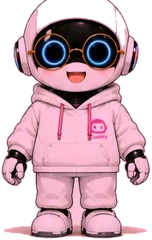
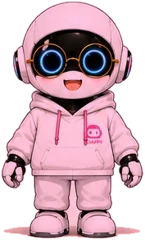
フテ猫クレーンゲーム v1.3：16ポーズのキャラシートを取り込み（実況ポーズ・景品21種追加）、チャッピーの頭欠け修正
Claude-Session: https://claude.ai/code/session_019DxhEiniayT79VQV9isXfd

diff --git a/futeneko-crane/index.html b/futeneko-crane/index.html
@@ -22,7 +22,7 @@ html,body{height:100%;overflow:hidden;background:#2a1250;font-family:"Hiragino M
 #cv{position:absolute;inset:0;width:100%;height:100%;display:block;touch-action:none}
 .bub{position:absolute;display:flex;align-items:flex-end;gap:4px;max-width:46%;opacity:0;transition:opacity .25s;pointer-events:none;z-index:5}
 .bub.show{opacity:1}
-.bub img{width:44px;height:44px;border-radius:50%;border:2px solid #fff;background:#fff;flex:0 0 auto}
+.bub img{width:64px;height:64px;object-fit:contain;flex:0 0 auto;filter:drop-shadow(0 2px 3px rgba(0,0,0,.4))}
 .bub .txt{background:#fff;color:#222;border-radius:14px;padding:7px 10px;font-size:13px;font-weight:800;line-height:1.3;box-shadow:0 2px 6px rgba(0,0,0,.3);position:relative}
 #bubL{left:6px;top:8px}
 #bubR{right:6px;top:8px;flex-direction:row-reverse}
@@ -107,9 +107,9 @@ h1{font-size:26px;color:#ffd75e;text-shadow:0 2px 0 #7a3a00;margin:6px 0 2px}
  <div id="stageWrap">
   <canvas id="cv"></canvas>
   <div id="timerBar"><div id="timerFill"></div></div>
-  <div class="bub" id="bubL"><img src="img/face-fute.webp" alt=""><div class="txt"></div></div>
-  <div class="bub" id="bubR"><img src="img/face-chap.webp" alt=""><div class="txt"></div></div>
-  <div class="bub" id="bubR2"><img src="img/face-kuro.webp" alt=""><div class="txt"></div></div>
+  <div class="bub" id="bubL"><img src="img/fute_think.webp" alt=""><div class="txt"></div></div>
+  <div class="bub" id="bubR"><img src="img/chap_wave.webp" alt=""><div class="txt"></div></div>
+  <div class="bub" id="bubR2"><img src="img/kuro_think.webp" alt=""><div class="txt"></div></div>
   <div id="res"><div id="resBox"></div></div>
   <div id="toast"></div>
 
@@ -161,7 +161,7 @@ h1{font-size:26px;color:#ffd75e;text-shadow:0 2px 0 #7a3a00;margin:6px 0 2px}
 </div>
 <script>
 'use strict';
-const VERSION='1.2';
+const VERSION='1.3';
 document.getElementById('verTxt').textContent=VERSION;
 const $=id=>document.getElementById(id);
 const clamp=(v,a,b)=>v<a?a:v>b?b:v;
@@ -194,6 +194,27 @@ const PR=[
  ['chap_walk','あるく チャッピー','chap_walk',1,72,86,1.2,.4,.15],
  ['chap_run','はしる チャッピー','chap_run',1,74,84,1.2,.35,.3],
  ['chap_jump','ジャンプ チャッピー','chap_jump',1,72,86,1.15,.35,-.3],
+ ['fute_joy','よろこぶ フテ猫','fute_joy',0,0,86,1.0,.5,0],
+ ['fute_sleep','ねむる フテ猫','fute_sleep',0,0,72,1.1,.7,0],
+ ['fute_think','かんがえる フテ猫','fute_think',0,0,86,1.0,.5,.1],
+ ['fute_goal','ゴール フテ猫','fute_goal',1,0,86,1.0,.4,-.2],
+ ['fute_lift','もちあげ フテ猫','fute_lift',1,0,90,1.2,.4,0],
+ ['fute_angry','おこる フテ猫','fute_angry',1,0,86,1.0,.5,0],
+ ['fute_shy','てれる フテ猫','fute_shy',1,0,86,1.0,.5,.15],
+ ['kuro_joy','よろこぶ クロネコ','kuro_joy',0,0,86,1.0,.55,0],
+ ['kuro_sleep','ねむる クロネコ','kuro_sleep',0,0,72,1.1,.7,0],
+ ['kuro_idea','ひらめく クロネコ','kuro_idea',0,0,86,1.0,.5,.1],
+ ['kuro_goal','ゴール クロネコ','kuro_goal',1,0,86,1.0,.4,0],
+ ['kuro_push','おす クロネコ','kuro_push',1,0,80,1.3,.5,-.3],
+ ['kuro_surprise','おどろく クロネコ','kuro_surprise',1,0,86,1.0,.45,.2],
+ ['kuro_sad','しょんぼり クロネコ','kuro_sad',1,0,72,1.1,.7,0],
+ ['chap_joy','よろこぶ チャッピー','chap_joy',0,0,86,1.15,.4,0],
+ ['chap_sleep','ねむる チャッピー','chap_sleep',0,0,72,1.2,.6,0],
+ ['chap_point','ゆびさす チャッピー','chap_point',1,0,86,1.15,.4,-.2],
+ ['chap_goal','ゴール チャッピー','chap_goal',1,0,86,1.15,.35,0],
+ ['chap_wave','てをふる チャッピー','chap_wave',1,0,86,1.15,.4,.1],
+ ['chap_surprise','おどろく チャッピー','chap_surprise',1,0,86,1.15,.35,.2],
+ ['chap_pickup','ひろう チャッピー','chap_pickup',1,0,70,1.2,.5,-.3],
  ['fute_gold','金のフテ猫','fute_gold',2,66,86,1.6,.3,0],
  ['kuro_platinum','プラチナ クロネコ','kuro_platinum',2,70,86,1.6,.3,0],
  ['chap_pink','ピンク チャッピー','chap_pink',2,68,86,1.3,.35,0],
@@ -209,11 +230,11 @@ const PR=[
  ['c_guitar','ギター','🎸',1],['c_crown','おうかん','👑',1],['c_robot','ロボそうじき','🤖',1],
  ['c_chest','ひみつの たからばこ','🎁',2],['c_star','きらきら ほし','🌟',2]
 ];
-const PRIZE={}; PR.forEach(p=>PRIZE[p[0]]={id:p[0],name:p[1],img:p[2],rar:p[3],w:p[4]||60,h:p[5]||60,wt:p[6]||1,fr:p[7]||.5,com:p[8]||0});
+const PRIZE={}; PR.forEach(p=>PRIZE[p[0]]={id:p[0],name:p[1],img:p[2],rar:p[3],w:p[4]||70,h:p[5]||60,wt:p[6]||1,fr:p[7]||.5,com:p[8]||0});
 const RARN=['ふつう','レア','超レア'];
 const CAPS=PR.filter(p=>p[0].startsWith('c_')).map(p=>p[0]);
-const PLUSH_N=['fute_front','fute_right','fute_left','fute_walk','kuro_front','kuro_right','kuro_left','kuro_walk','cushion'];
-const PLUSH_R=['fute_run','fute_jump','kuro_run','kuro_jump','chap_front','chap_right','chap_left','chap_walk','chap_run','chap_jump'];
+const PLUSH_N=['fute_front','fute_right','fute_left','fute_walk','kuro_front','kuro_right','kuro_left','kuro_walk','cushion','fute_joy','fute_sleep','fute_think','kuro_joy','kuro_sleep','kuro_idea','chap_joy','chap_sleep'];
+const PLUSH_R=['fute_run','fute_jump','kuro_run','kuro_jump','chap_front','chap_right','chap_left','chap_walk','chap_run','chap_jump','fute_goal','fute_lift','fute_angry','fute_shy','kuro_goal','kuro_push','kuro_surprise','kuro_sad','chap_point','chap_goal','chap_wave','chap_surprise','chap_pickup'];
 const PLUSH_S=['fute_gold','kuro_platinum','chap_pink'];
 
 /* ===== だい ===== */
@@ -281,7 +302,8 @@ const SFX={
 
 /* ===== 画像 ===== */
 const IMG={};
-const IMGKEYS=['fute_front','fute_right','fute_left','fute_walk','fute_run','fute_jump','kuro_front','kuro_right','kuro_left','kuro_walk','kuro_run','kuro_jump','chap_front','chap_right','chap_left','chap_walk','chap_run','chap_jump','fute_gold','kuro_platinum','chap_pink'];
+const POSES=['joy','surprise','sad','angry','think','idea','shy','sleep','point','wave','pickup','lift','push','pull','stumble','goal'];
+const IMGKEYS=[].concat(...['fute','kuro','chap'].map(c=>POSES.map(p=>c+'_'+p))).concat(['fute_front','fute_right','fute_left','fute_walk','fute_run','fute_jump','kuro_front','kuro_right','kuro_left','kuro_walk','kuro_run','kuro_jump','chap_front','chap_right','chap_left','chap_walk','chap_run','chap_jump','fute_gold','kuro_platinum','chap_pink']);
 function loadImgs(){return Promise.all(IMGKEYS.map(k=>new Promise(res=>{const im=new Image();im.onload=()=>{IMG[k]=im;res();};im.onerror=()=>res();im.src='img/'+k+'.webp';})));}
 
 /* ===== 物理 ===== */
@@ -293,6 +315,7 @@ function makePrize(id,x,z,y){
  if(id.startsWith('c_')){p.shape='ball';p.r=27;p.col=pick(['#ff6f91','#4fc3f7','#ffd54f','#81c784','#ba68c8','#ff8a65']);p.x=x;p.y=(y||0)+p.r;p.px=p.x;p.py=p.y;p.wt=.9;p.fr=.15;}
  else{
   p.w=d.w;p.h=d.h;p.wt=d.wt;p.fr=d.fr;p.com=d.com;p.shape='box';
+  if(IMG[d.img]&&!id.startsWith('giant_')){const im=IMG[d.img];p.w=clamp(Math.round(d.h*im.naturalWidth/im.naturalHeight),44,110);}
   const cx=x,cy=(y||0)+d.h/2;
   p.pt=[[cx-d.w/2,cy-d.h/2],[cx+d.w/2,cy-d.h/2],[cx+d.w/2,cy+d.h/2],[cx-d.w/2,cy+d.h/2]].map(q=>({x:q[0],y:q[1],px:q[0],py:q[1]}));
   p.cons=[[0,1,d.w],[1,2,d.h],[2,3,d.w],[3,0,d.h],[0,2,Math.hypot(d.w,d.h)],[1,3,Math.hypot(d.w,d.h)]];
@@ -380,7 +403,7 @@ function setupMachine(k){
  $('hMach').textContent=machine.name;$('chMach').style.display='';
  $('btnQuit').style.display='';$('btnHint').style.display='';
  showPad(false);
- say('R','チャッピー','こんにちは！ '+machine.name+'だよ。'+(machine.type==='bridge'?'はこの はしを おして ずらしてね！':machine.type==='giant'?'ひっぱって すこしずつ あなへ！':'まんなかを ねらってね！'));
+ say('R','チャッピー','こんにちは！ '+machine.name+'だよ。'+(machine.type==='bridge'?'はこの はしを おして ずらしてね！':machine.type==='giant'?'ひっぱって すこしずつ あなへ！':'まんなかを ねらってね！'),'wave');
 }
 function refill(){
  if(machine.type==='plush'&&prizes.length<machine.n)spawnPlush(1);
@@ -392,13 +415,13 @@ function showPad(on){playing=on;$('pad').classList.toggle('playing',on);$('timer
 let depthTipShown=false;
 function startPlay(){
  if(claw.st!=='idle')return;
- if(S.coins<machine.cost){toast('コインが たりないよ… おてつだいや ミッションで ふやそう');say('L','フテ猫','コイン ないんか。おてつだい してこい。');SFX.miss();return;}
+ if(S.coins<machine.cost){toast('コインが たりないよ… おてつだいや ミッションで ふやそう');say('L','フテ猫','コイン ないんか。おてつだい してこい。','angry');SFX.miss();return;}
  S.coins-=machine.cost;S.plays++;misProg('play');save();updHud();SFX.coin();
  timeLeft=machine.time;showPad(true);claw.st='move';
- if(!depthTipShown){depthTipShown=true;say('R','チャッピー','▲おく は うしろ（ちいさく みえる）、▼てまえ は こっち！ ゆかの まとが みどりに なったら つかめるよ');say('R2','クロネコ','景品の かげに まとを あわせろ。');}
- else say('R','チャッピー',pick(['がんばって！','いいところを さがそう！','おちついて ねらってね！']));
+ if(!depthTipShown){depthTipShown=true;say('R','チャッピー','▲おく は うしろ（ちいさく みえる）、▼てまえ は こっち！ ゆかの まとを 景品の かげに あわせてね','idea');say('R2','クロネコ','景品の かげに まとを あわせろ。','point');}
+ else say('R','チャッピー',pick(['がんばって！','いいところを さがそう！','おちついて ねらってね！']),pick(['wave','point','joy']));
 }
-function doGrab(){if(claw.st!=='move')return;claw.st='down';claw.open=1;input={l:0,r:0,b:0,f:0};SFX.down();say('L','フテ猫',pick(['さあ どうなる？','そこで ええんか？','いくで！']));}
+function doGrab(){if(claw.st!=='move')return;claw.st='down';claw.open=1;input={l:0,r:0,b:0,f:0};SFX.down();say('L','フテ猫',pick(['さあ どうなる？','そこで ええんか？','いくで！']),'surprise');}
 function updHud(){$('hCoin').textContent=S.coins;$('hPrize').textContent=Object.values(S.col).reduce((a,b)=>a+b,0);}
 
 function tryGrab(){
@@ -421,10 +444,10 @@ function tryGrab(){
   // いちばん ちかい かど
   if(best.shape==='box'){let bi=0,bd=1e9;best.pt.forEach((q,i)=>{const d=Math.hypot(q.x-claw.x,q.y-claw.y);if(d<bd){bd=d;bi=i;}});claw.grabPt=bi;const q=best.pt[bi];claw.g0={qx:q.x-claw.x,qy:q.y,cy:claw.y};}
   else{claw.mode='carry';claw.slipT=0;claw.quality=Math.max(f,.9);}
- }else{claw.mode='none';best.held=false;claw.hold=null;say('L','フテ猫','びくとも せえへん！ おもすぎや！');return;}
+ }else{claw.mode='none';best.held=false;claw.hold=null;say('L','フテ猫','びくとも せえへん！ おもすぎや！','angry');return;}
  SFX.grab();
- if(claw.mode==='carry'){if(f>1.35&&eff<.3){say('R2','クロネコ',pick(['重心を とらえた。','今の角度は悪くない。','いい つかみだ。']));}else if(eff>.5){say('L','フテ猫',pick(['おいおい、そこちゃうやろ！','かたよっとるで！','はしっこ つかんでどうすんねん']));}else say('R','チャッピー','あとちょっと！ がんばって！');}
- else say('R2','クロネコ',pick(['かどを つかんだ。うごくか？','もちあがらない… だが ずれるぞ。','てこの げんりだ。']));
+ if(claw.mode==='carry'){if(f>1.35&&eff<.3){say('R2','クロネコ',pick(['重心を とらえた。','今の角度は悪くない。','いい つかみだ。']),'idea');}else if(eff>.5){say('L','フテ猫',pick(['おいおい、そこちゃうやろ！','かたよっとるで！','はしっこ つかんでどうすんねん']),'angry');}else say('R','チャッピー','あとちょっと！ がんばって！','joy');}
+ else say('R2','クロネコ',pick(['かどを つかんだ。うごくか？','もちあがらない… だが ずれるぞ。','てこの げんりだ。']),'pull');
 }
 function releasePrize(reason){
  const p=claw.hold;if(!p)return;if(window.__dbg)window.__dbg.push(reason+' '+claw.st+' q'+claw.quality.toFixed(2)+' off'+claw.offset.toFixed(2)+' slipT'+claw.slipT.toFixed(2)+' '+claw.mode);p.held=false;claw.hold=null;
@@ -434,8 +457,8 @@ function releasePrize(reason){
  p.z=clamp(claw.z,.05,.95);p.landed=false;
  claw.mode='none';claw.open=1;
  if(reason==='slip'){SFX.slip();const c=center(p);const near=c.x<HOLE_W+40&&p.z<HOLE_Z+.15;
-  if(near)say('R','チャッピー','おしい！！ あと すこしだったよ！');else say('L','フテ猫',pick(['アーム弱すぎやろ！ 商売上手やな！','おちたー！','ゆるゆるやないか このアーム']));
-  const c2=center(p);const dir=c2.x>HOLE_W+30?'ひだり':'てまえ';if(!near)setTimeout(()=>say('R','チャッピー','つぎは もうすこし '+dir+'に うごかすと いいかも！'),1600);}
+  if(near)say('R','チャッピー','おしい！！ あと すこしだったよ！','stumble');else say('L','フテ猫',pick(['アーム弱すぎやろ！ 商売上手やな！','おちたー！','ゆるゆるやないか このアーム']),pick(['angry','sad','surprise']));
+  const c2=center(p);const dir=c2.x>HOLE_W+30?'ひだり':'てまえ';if(!near)setTimeout(()=>say('R','チャッピー','つぎは もうすこし '+dir+'に うごかすと いいかも！','point'),1600);}
 }
 function updateClaw(dt){
  const spd=165;const oldx=claw.x,oldz=claw.z;
@@ -490,7 +513,7 @@ function updateClaw(dt){
 }
 function endPlay(){
  lastPlayEnd=performance.now();showPad(false);input={l:0,r:0,b:0,f:0};
- if(!lastResult){SFX.miss();say('L','フテ猫',pick(['なにも とれへんかったな。','つぎや つぎ！','もっと よう みて ねらえ！']));}
+ if(!lastResult){SFX.miss();say('L','フテ猫',pick(['なにも とれへんかったな。','つぎや つぎ！','もっと よう みて ねらえ！']),pick(['sad','angry','think']));}
  lastResult=null;refill();save();updHud();
 }
 function acquire(p){
@@ -499,10 +522,10 @@ function acquire(p){
  misProg('win');misProg(mk);if(d.rar>=1)misProg('rare');if(isNew)misProg('new');
  const n=colCount();if(n>=S.mile+5){S.mile=n-(n%5);S.coins+=100;setTimeout(()=>toast('📖 ずかん '+S.mile+'しゅるい たっせい！ +100コイン'),1800);}
  save();updHud();
- if(d.rar===2){SFX.fanfare();confetti(160);say('L','フテ猫','なんやて！？ 超レアやないか！！ ……まあ、やるやん。');say('R','チャッピー','すごーい！！ きらきら してる！');}
- else if(d.rar===1){SFX.jingle();confetti(80);say('L','フテ猫','取れたんか！ やるやないか！');say('R','チャッピー','やったー！ レアだよ！');}
- else{SFX.jingle();confetti(40);say('L','フテ猫',pick(['取れたんか！ やるやないか！','ふん、まぐれやろ。','……わるくない。']));say('R','チャッピー','やったー！ 大成功だね！');}
- if(Math.random()<.5)setTimeout(()=>say('R2','クロネコ',pick(['……見事だ。','うでを あげたな。','次も この調子だ。'])),1200);
+ if(d.rar===2){SFX.fanfare();confetti(160);say('L','フテ猫','なんやて！？ 超レアやないか！！ ……まあ、やるやん。','surprise');say('R','チャッピー','すごーい！！ きらきら してる！','goal');}
+ else if(d.rar===1){SFX.jingle();confetti(80);say('L','フテ猫','取れたんか！ やるやないか！','goal');say('R','チャッピー','やったー！ レアだよ！','joy');}
+ else{SFX.jingle();confetti(40);say('L','フテ猫',pick(['取れたんか！ やるやないか！','ふん、まぐれやろ。','……わるくない。']),pick(['joy','shy','goal']));say('R','チャッピー','やったー！ 大成功だね！','joy');}
+ if(Math.random()<.5)setTimeout(()=>say('R2','クロネコ',pick(['……見事だ。','うでを あげたな。','次も この調子だ。']),'goal'),1200);
  const b=$('resBox');
  b.innerHTML=(IMG[d.img]?'<img src="img/'+d.img+'.webp" alt="">':'<div class="em">'+d.img+'</div>')+'<h2>'+d.name+'</h2><span class="rr r'+d.rar+'">'+RARN[d.rar]+'</span><p>'+(isNew?'はじめて ゲット！ ずかんに とうろく したよ':'もっている かず：'+S.col[d.id]+'こ')+'</p>';
  $('res').classList.add('show');setTimeout(()=>$('res').classList.remove('show'),2600);
@@ -524,9 +547,9 @@ function showHint(){
   if(machine.type==='bridge'){sc=1;}else{sc=(W-c.x)/W*1.2+(p.shape==='ball'?.3:0)-p.wt*.3+(p.z<.5?.2:0)-(p.d.com?Math.abs(p.d.com):0);}
   if(sc>bs){bs=sc;best=p;}});
  if(!best)return;hint=best;hintT=4;
- if(machine.type==='bridge')say('R','チャッピー','はこの はしを ねらって、かたほうだけ もちあげると くるっと まわるよ！');
- else if(machine.type==='giant')say('R','チャッピー','あなに ちかいがわの はしを つかむと、ひっぱれるよ！');
- else{const c=center(best);const side=c.x<claw.x?'ひだり':'みぎ';const dz=best.z>claw.z+.1?'おく':best.z<claw.z-.1?'てまえ':'';say('R','チャッピー','あのこが とりやすそう！ '+side+(dz?'の '+dz:'')+'に うごかしてみて！');}
+ if(machine.type==='bridge')say('R','チャッピー','はこの はしを ねらって、かたほうだけ もちあげると くるっと まわるよ！','idea');
+ else if(machine.type==='giant')say('R','チャッピー','あなに ちかいがわの はしを つかむと、ひっぱれるよ！','pull');
+ else{const c=center(best);const side=c.x<claw.x?'ひだり':'みぎ';const dz=best.z>claw.z+.1?'おく':best.z<claw.z-.1?'てまえ':'';say('R','チャッピー','あのこが とりやすそう！ '+side+(dz?'の '+dz:'')+'に うごかしてみて！','point');}
 }
 
 /* ===== 描画 ===== */
@@ -657,7 +680,8 @@ function loop(t){
 
 /* ===== UI ===== */
 const bubT={L:0,R:0,R2:0};
-function say(who,name,text){const el=$('bub'+who);el.querySelector('.txt').textContent=text;el.classList.add('show');clearTimeout(bubT[who]);bubT[who]=setTimeout(()=>el.classList.remove('show'),2800);}
+const BUBCH={L:'fute',R:'chap',R2:'kuro'};
+function say(who,name,text,pose){const el=$('bub'+who);el.querySelector('.txt').textContent=text;el.querySelector('img').src='img/'+BUBCH[who]+'_'+(pose||'think')+'.webp';el.classList.add('show');clearTimeout(bubT[who]);bubT[who]=setTimeout(()=>el.classList.remove('show'),2800);}
 let toastT=0;function toast(m){const t=$('toast');t.textContent=m;t.classList.add('show');clearTimeout(toastT);toastT=setTimeout(()=>t.classList.remove('show'),2200);}
 function buildMenu(){
  const g=$('machGrid');g.innerHTML='';

diff --git a/futeneko-crane/sw.js b/futeneko-crane/sw.js
@@ -1,4 +1,4 @@
-const CACHE='futeneko-crane-v1.2';
+const CACHE='futeneko-crane-v1.3';
 const FILES=['./','./index.html'];
 self.addEventListener('install',e=>{self.skipWaiting();e.waitUntil(caches.open(CACHE).then(c=>c.addAll(FILES)).catch(()=>{}));});
 self.addEventListener('activate',e=>{e.waitUntil(caches.keys().then(ks=>Promise.all(ks.filter(k=>k!==CACHE).map(k=>caches.delete(k)))).then(()=>self.clients.claim()));});

diff --git a/futeneko-crane/README.md b/futeneko-crane/README.md
@@ -36,4 +36,5 @@
 - v1.1 (2026-11-08)：奥行きを分かりやすく（床を深く市松模様、奥は小さく、クレーン真下の「まと」、同じ奥行きの景品が光る、おく⇄てまえ目盛り）。遊んでいない時に落ちた景品は戻す。
 - v1.2 (2026-11-08)：難易度アップ。アームを弱く（しょしんしゃ1.55／ぬいぐるみ1.28／橋わたし0.6／ミステリー1.1／巨大1.0／激ムズ0.78）、すべりやすく、真上でないとつかめない（横ずれ±2px・奥行き±0.15）、制限時間短縮。緑の光と帯はしょしんしゃ台だけ。かどづかみは「アームの力の割合だけ持ち上がる」部分持ち上げに変更（橋わたし・巨大景品はじわじわ寄せる）。橋わたし台の床が穴になっていなかった不具合、巨大景品が穴に入らない不具合を修正（巨大景品台は穴を150幅に）。
 - 目安の成功率（まんなか完璧ねらい）：しょしんしゃ75%／ぬいぐるみ40%／ミステリー33%／激ムズ25%／橋わたし3〜6回／巨大景品5〜7回
+- v1.3 (2026-11-08)：リアクション16ポーズのキャラクターシート（フテ猫・チャッピー（ヘルメット版）・クロネコ）を取り込み。実況の吹き出しが場面に合ったポーズに変わる（驚く・怒る・よろける・ゴールなど）。ポーズぬいぐるみ21種を景品に追加（計59種）。チャッピーの旧スプライトで頭が欠けていたのを切り直し。景品の幅は画像の縦横比から自動。
 - 今後：お菓子すくい、リングキャッチ、お部屋づくり（フテ猫ワールドと連携）、家族対戦。
